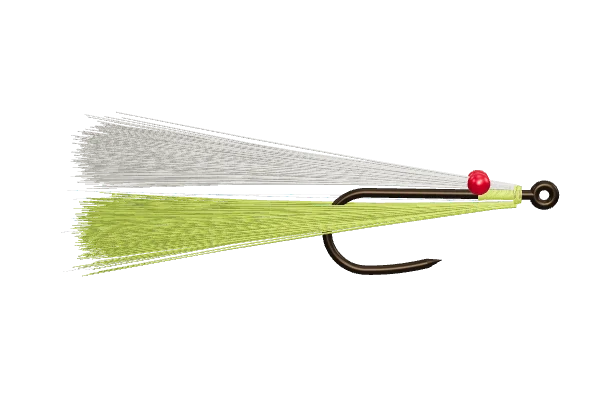
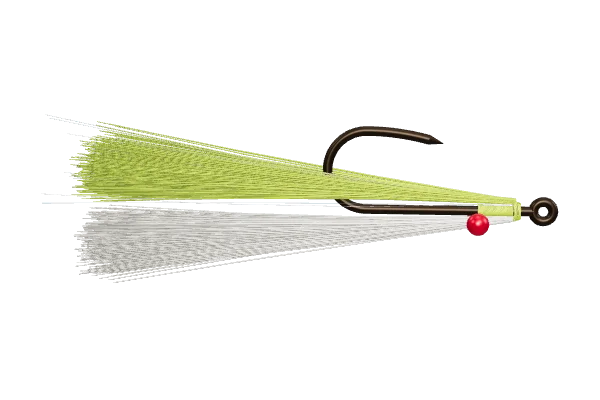
Decisions: every point-up fly is pictured point up in the gallery (Clouser, Crazy Charlie), not only jigs; a hairline outline in the light theme lets white materials stand out from the paper; the Troth Elk Hair Caddis takes gold wire, as three of four sources give it

Changed region(s): [[0.12, 0.27, 0.93, 0.72]]

diff --git a/src/catalog/search.test.ts b/src/catalog/search.test.ts
@@ -32,10 +32,10 @@ describe("catalog search", () => {
   });
 
   it("needs one version of a pattern to have every material asked for", () => {
-    // Gold wire in the Elk Hair Caddis, copper wire in its Troth variant: neither has both.
-    expect(ids({ materials: ["gold-wire", "elk-hair"] })).toContain("elk-hair-caddis");
-    expect(ids({ materials: ["copper-wire", "elk-hair"] })).toContain("elk-hair-caddis");
-    expect(ids({ materials: ["gold-wire", "copper-wire"] })).not.toContain("elk-hair-caddis");
+    // Chenille in the Peeping Caddis, wool in its Edwards variant: neither has both.
+    expect(ids({ materials: ["chenille", "copper-wire"] })).toContain("peeping-caddis");
+    expect(ids({ materials: ["wool", "lead-free-wire"] })).toContain("peeping-caddis");
+    expect(ids({ materials: ["chenille", "wool"] })).not.toContain("peeping-caddis");
   });
 
   it("needs one version to meet every filter at once", () => {
@@ -56,8 +56,9 @@ describe("catalog search", () => {
   it("finds by material, including variants' materials", () => {
     expect(ids({ q: "peacock" })).toContain("red-tag");
     expect(ids({ q: "peacock" })).not.toContain("elk-hair-caddis");
-    expect(ids({ materials: ["copper-wire"] })).toContain("elk-hair-caddis");
-    expect(ids({ materials: ["copper-wire"] })).not.toContain("europea-12");
+    // Only the conehead variant of the Woolly Bugger has a cone.
+    expect(ids({ materials: ["brass-cone"] })).toContain("woolly-bugger");
+    expect(ids({ materials: ["brass-cone"] })).not.toContain("europea-12");
     const both = ids({ materials: ["hares-ear-dubbing", "mallard-breast"] });
     expect(both).toContain("europea-12");
     expect(both).not.toContain("red-tag");

diff --git a/src/ui/styles.css b/src/ui/styles.css
@@ -16,6 +16,9 @@
   --accent-wash: #dbe0e4;
   --danger: #8a2a1a;
   --specimen-shadow: rgb(40 30 20 / 0.3);
+  /* A hairline round the fly, so white hair and feathers stand out from the pale paper.
+     Dark materials hide it; the dark theme doesn't need it. */
+  --specimen-edge: rgb(60 50 40 / 0.5);
 
   --display: "IM Fell English", "Iowan Old Style", Georgia, serif;
   --text: "Spectral", Georgia, serif;
@@ -52,6 +55,7 @@
   --accent-wash: #22477a;
   --danger: #ffb4a4;
   --specimen-shadow: rgb(0 8 20 / 0.45);
+  --specimen-edge: transparent;
   color-scheme: dark;
 }
 
@@ -250,7 +254,7 @@ select {
   position: relative;
   aspect-ratio: 3 / 2;
   overflow: hidden;
-  filter: drop-shadow(0 0.15rem 0.2rem var(--specimen-shadow));
+  filter: drop-shadow(0 0 0.5px var(--specimen-edge)) drop-shadow(0 0.15rem 0.2rem var(--specimen-shadow));
 }
 
 .fly-of-the-day-image img {
@@ -462,10 +466,10 @@ select {
   object-fit: contain;
 }
 
-/* A pinned specimen casts a faint shadow on its plate, which also outlines white flies. */
+/* A pinned specimen casts a faint shadow on its plate; the edge outlines white flies. */
 .plate-image img,
 .plate-spin {
-  filter: drop-shadow(0 0.15rem 0.2rem var(--specimen-shadow));
+  filter: drop-shadow(0 0 0.5px var(--specimen-edge)) drop-shadow(0 0.15rem 0.2rem var(--specimen-shadow));
 }
 
 .plate-spin {
@@ -568,7 +572,7 @@ select {
 /* The fly casts a faint shadow on the paper behind it, as on the gallery plates. */
 .viewer-canvas canvas,
 .studio-canvas canvas {
-  filter: drop-shadow(0 0.2rem 0.25rem var(--specimen-shadow));
+  filter: drop-shadow(0 0 0.5px var(--specimen-edge)) drop-shadow(0 0.2rem 0.25rem var(--specimen-shadow));
 }
 
 .viewer-tools {

diff --git a/src/render-page.ts b/src/render-page.ts
@@ -1,6 +1,6 @@
 import { findPattern } from "./patterns";
 import { FlyScene, VIEW_NAMES, type ViewName } from "./render/FlyScene";
-import { hookModel } from "./tying/hook";
+import { ridesPointUp } from "./tying/hook";
 import { simulate } from "./tying/simulate";
 
 /**
@@ -10,7 +10,7 @@ import { simulate } from "./tying/simulate";
  *     &transparent=1    no background
  *     &fov=<degrees>    field of view (default 8: nearly free of perspective)
  *     &fit=sphere       same framing from every angle (turntables)
- *     &pose=pictured    as flies are usually pictured: jig flies point up, others as tied
+ *     &pose=pictured    as flies are usually pictured: point-up flies point up, others as tied
  * Sets `data-ready` on <body> when the frame is drawn, or `data-error` on failure.
  * `window.turnTo(degrees)` turns the view around the vertical axis for turntable frames.
  */
@@ -39,8 +39,8 @@ if (!pattern || !VIEW_NAMES.includes(view)) {
   });
   const build = simulate(pattern.recipe);
   scene.setBuild(build);
-  // Jig flies are usually photographed point up, the way they swim; other flies as tied.
-  if (params.get("pose") === "pictured" && hookModel(pattern.recipe.hook).jig) scene.setTurnedOver(true);
+  // Flies that swim point up (jigs, weighted eyes) are usually photographed that way; others as tied.
+  if (params.get("pose") === "pictured" && ridesPointUp(pattern.recipe)) scene.setTurnedOver(true);
   scene.setView(view, 0, fit);
   scene.setGrid(params.get("grid") === "1");
   scene.setTime(build.duration);

diff --git a/scripts/lib/renderer.ts b/scripts/lib/renderer.ts
@@ -13,7 +13,7 @@ export interface RenderOptions {
   transparent?: boolean;
   fov?: number;
   fit?: "box" | "sphere";
-  /** "pictured": as flies are usually photographed (jig flies point up). Default: as tied. */
+  /** "pictured": as flies are usually photographed (point-up flies point up). Default: as tied. */
   pose?: "tied" | "pictured";
   width?: number;
   height?: number;

diff --git a/docs/recipe-schema.md b/docs/recipe-schema.md
@@ -166,7 +166,7 @@ A wing tied all round a tube takes `spread=180`.
 Flies with dumbbell eyes and flies on jig hooks swim hook point up. Jig hooks imply it; for
 other flies say so with `rides point-up` (the default is `point-down`). The steps are always
 shown as tied, point down; the viewer offers to turn a point-up fly over, and the gallery
-pictures jig flies point up, as they are usually photographed.
+pictures every point-up fly point up, as they are usually photographed.
 
 ## Colours
 
